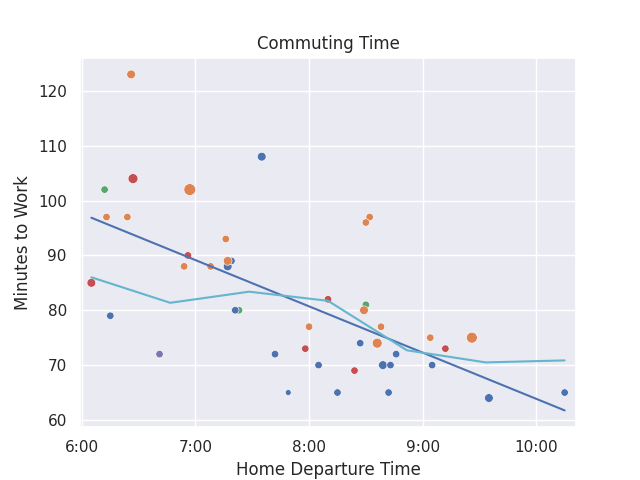
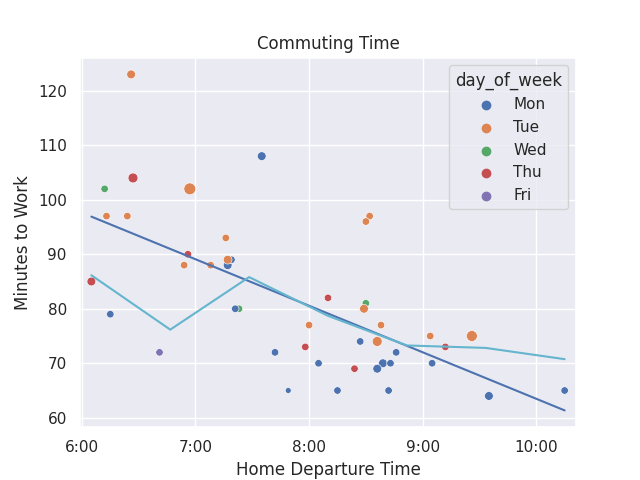
included legend with only days of the week

diff --git a/make_plots.py b/make_plots.py
@@ -127,6 +127,7 @@ def duration_vs_departure(df, start='home', end='work', order=1, gbr=False):
 
     # Create a visualization
     #ax = sns.regplot(data=df, x=start + '_departure_time_hr', y='minutes_to_' + end, scatter=False, ci=None, color='r', order=order)#, scatter_kws={'s':1}) # to get the linear trendline
+    ax = sns.scatterplot(data=df, x=start + '_departure_time_hr', y='minutes_to_' + end, hue='day_of_week', hue_order=['Mon', 'Tue', 'Wed', 'Thu', 'Fri'], s=1)
     ax = sns.scatterplot(data=df, x=start + '_departure_time_hr', y='minutes_to_' + end, hue='day_of_week', hue_order=['Mon', 'Tue', 'Wed', 'Thu', 'Fri'], size='mileage_to_' + end, legend=False) # to plot the scatter points colored by day of the week
     #ax = sns.lmplot(data=df, x='home_departure_time_hr', y='minutes_to_work', ci=None) # This has not worked due to FacetGrid issues
     
